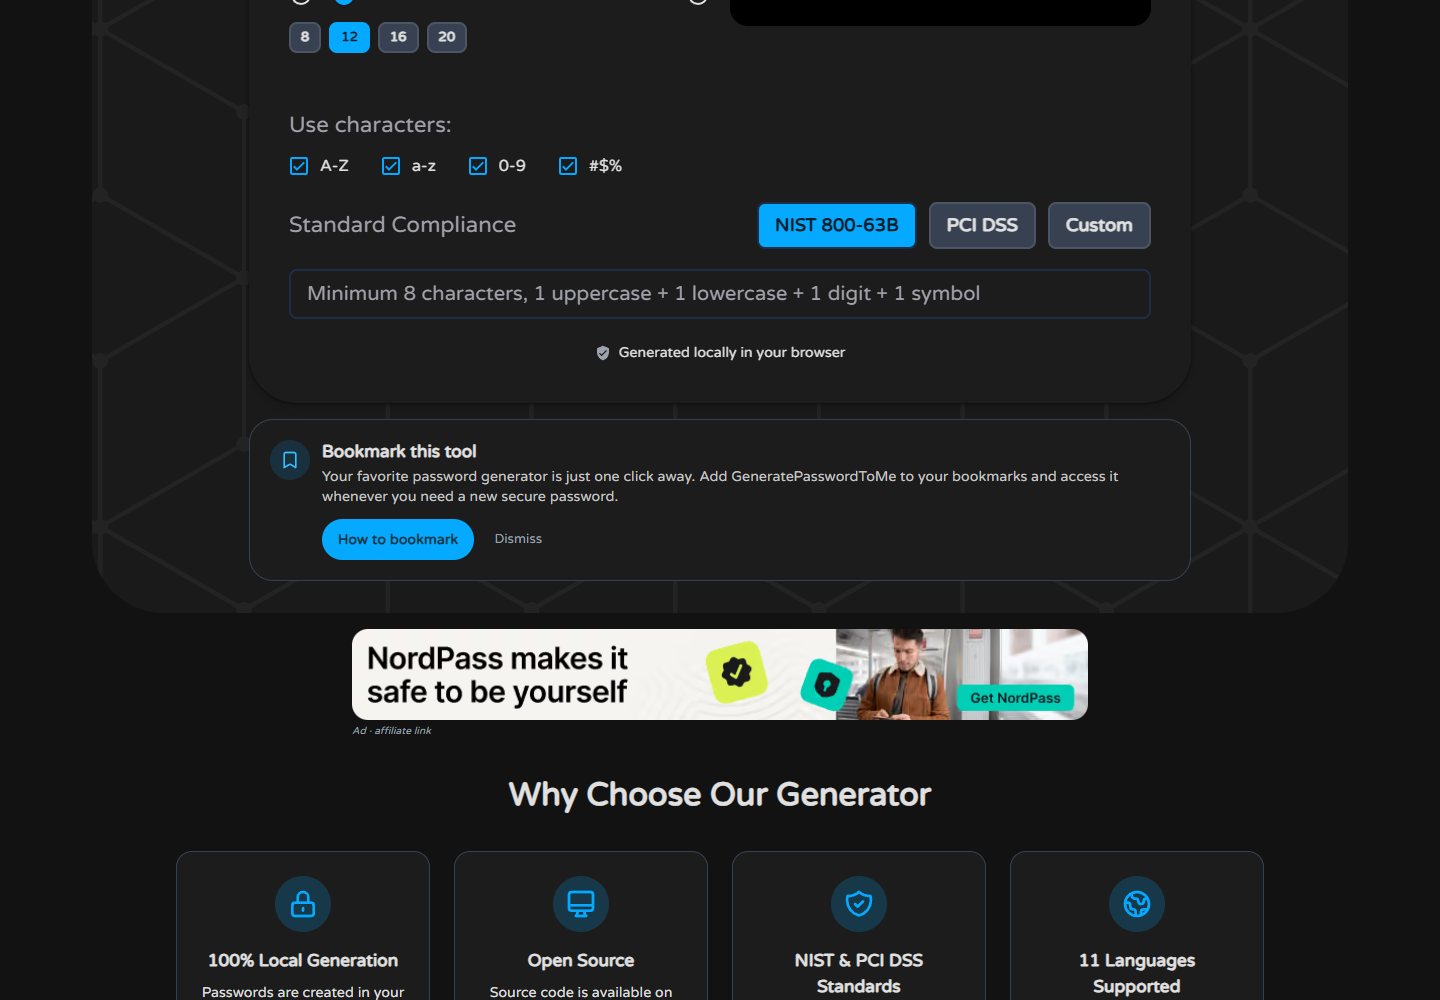
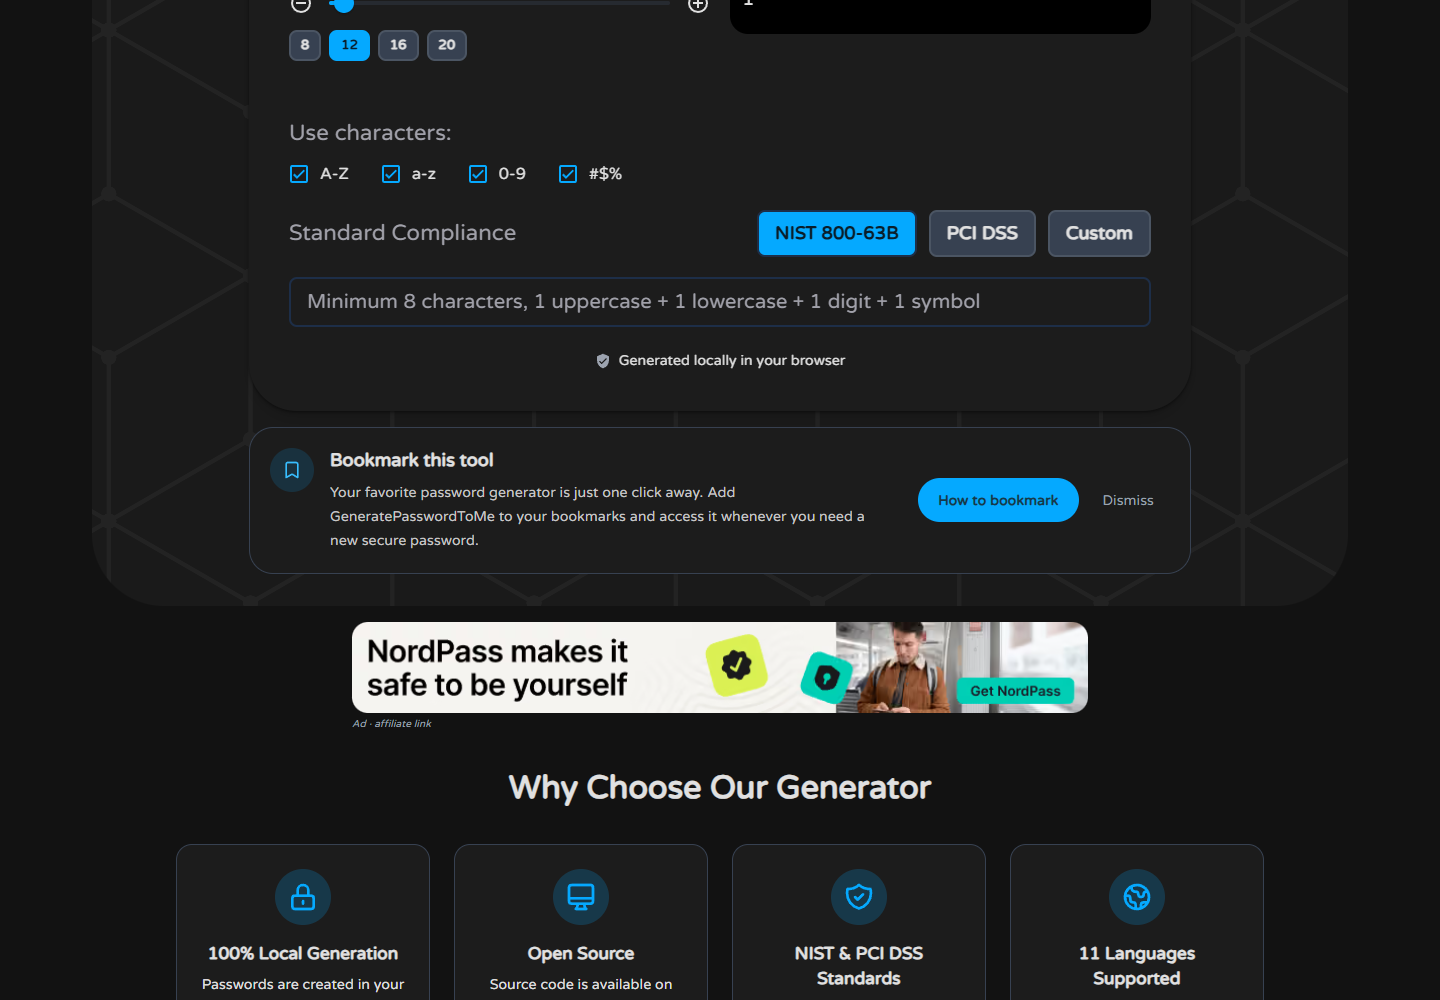
Polish bookmark prompt typography, spacing and locale fonts
- restore locale fonts inside portaled dialogs (Arsenal for ua/ru, Noto Sans SC/JP for zh/ja); the global * font rule bypassed inheritance, so dialogs fell back to Varela Round for Cyrillic and CJK
- normalise the dialog type scale to 12/14/16/18 and cap copy at 65ch: the desktop block line length dropped from ~113 to 75 characters
- lay the block out as a 65ch text column with the actions on the right, and give title/description an 8px rhythm
- raise touch targets to 44px for primary/secondary actions, selects and the close button, 40px for device chips
- refresh desktop/mobile screenshots and document the measurements

Prepared with an AI coding assistant.

diff --git a/src/components/BookmarkPrompt/BookmarkInstructions.tsx b/src/components/BookmarkPrompt/BookmarkInstructions.tsx
@@ -5,6 +5,7 @@ import { createPortal } from 'react-dom';
 import { useTranslation } from 'react-i18next';
 import { Bookmark, X } from 'lucide-react';
 import { cn } from '@/lib/utils';
+import { localeFontClass } from '@/lib/locale-font';
 import { announceModalOpen, subscribeModalOpen } from '@/lib/modal-coordination';
 import {
   BOOKMARK_EVENTS,
@@ -232,7 +233,10 @@ export default function BookmarkInstructions({ locale, platform, onClose }: Book
         aria-modal="true"
         aria-labelledby="bookmark-instructions-title"
         aria-describedby="bookmark-instructions-description"
-        className="max-h-[92vh] w-full max-w-lg animate-in overflow-y-auto rounded-t-3xl border border-[#E5F6FF] bg-white p-5 shadow-2xl fade-in duration-200 motion-reduce:animate-none dark:border-[#374151] dark:bg-[#1c1c1c] sm:rounded-3xl sm:p-6"
+        className={cn(
+          localeFontClass(locale),
+          'max-h-[92vh] w-full max-w-lg animate-in overflow-y-auto rounded-t-3xl border border-[#E5F6FF] bg-white p-5 shadow-2xl fade-in duration-200 motion-reduce:animate-none dark:border-[#374151] dark:bg-[#1c1c1c] sm:rounded-3xl sm:p-6'
+        )}
       >
         <div className="flex items-start justify-between gap-3">
           <div className="flex items-start gap-3">
@@ -244,7 +248,7 @@ export default function BookmarkInstructions({ locale, platform, onClose }: Book
             </span>
             <h2
               id="bookmark-instructions-title"
-              className="mt-1 text-[18px] font-bold leading-snug text-[#071016] dark:text-[#e0e0e0] sm:text-[19px]"
+              className="mt-2 text-[18px] font-bold leading-snug text-[#071016] dark:text-[#e0e0e0]"
             >
               {t('bookmark_modal_title')}
             </h2>
@@ -254,7 +258,7 @@ export default function BookmarkInstructions({ locale, platform, onClose }: Book
             type="button"
             onClick={() => onClose('close')}
             aria-label={t('bookmark_close')}
-            className="shrink-0 rounded-full p-1.5 text-[#6b7280] transition hover:bg-[#EAF8FF] hover:text-[#2A4E63] focus-visible:outline-none focus-visible:ring-4 focus-visible:ring-[#2A4E63]/30 dark:text-[#9ca3af] dark:hover:bg-white/10 dark:hover:text-white dark:focus-visible:ring-[#05a9ff]/40"
+            className="flex h-11 w-11 shrink-0 items-center justify-center rounded-full text-[#6b7280] transition hover:bg-[#EAF8FF] hover:text-[#2A4E63] focus-visible:outline-none focus-visible:ring-4 focus-visible:ring-[#2A4E63]/30 dark:text-[#9ca3af] dark:hover:bg-white/10 dark:hover:text-white dark:focus-visible:ring-[#05a9ff]/40"
           >
             <X className="h-5 w-5" aria-hidden="true" />
           </button>
@@ -262,12 +266,12 @@ export default function BookmarkInstructions({ locale, platform, onClose }: Book
 
         <p
           id="bookmark-instructions-description"
-          className="mt-3 text-[14px] leading-6 text-[#374151] dark:text-[#c7c7c7]"
+          className="mt-3 max-w-prose text-[14px] leading-6 text-[#374151] dark:text-[#c7c7c7]"
         >
           {t('bookmark_modal_description')}
         </p>
 
-        <p className="mt-2 text-[12px] text-[#6b7280] dark:text-[#9ca3af]">
+        <p className="mt-2 text-[12px] leading-5 text-[#6b7280] dark:text-[#9ca3af]">
           {t('bookmark_detected', {
             device: t(`bookmark_platform_${deviceType}`),
             os: osLabel,
@@ -275,7 +279,7 @@ export default function BookmarkInstructions({ locale, platform, onClose }: Book
           })}
         </p>
 
-        <div className="mt-4 rounded-2xl border border-[#E5F6FF] bg-[#F7FCFF] p-3 dark:border-[#374151] dark:bg-[#242424]">
+        <div className="mt-5 rounded-2xl border border-[#E5F6FF] bg-[#F7FCFF] p-4 dark:border-[#374151] dark:bg-[#242424]">
           <p className="text-[12px] font-semibold text-[#2A4E63] dark:text-[#9ed9ff]">
             {t('bookmark_manual_instructions')}
           </p>
@@ -284,7 +288,7 @@ export default function BookmarkInstructions({ locale, platform, onClose }: Book
             <legend className="text-[12px] text-[#4b5563] dark:text-[#bdbdbd]">
               {t('bookmark_platform_select')}
             </legend>
-            <div className="mt-1 flex flex-wrap gap-2">
+            <div className="mt-1.5 flex flex-wrap gap-2">
               {DEVICE_OPTIONS.map((option) => (
                 <button
                   key={option}
@@ -292,7 +296,7 @@ export default function BookmarkInstructions({ locale, platform, onClose }: Book
                   onClick={() => handleDeviceChange(option)}
                   aria-pressed={deviceType === option}
                   className={cn(
-                    'rounded-full border px-3 py-1.5 text-[13px] font-semibold transition',
+                    'inline-flex min-h-10 items-center rounded-full border px-3.5 text-[14px] font-semibold transition',
                     'focus-visible:outline-none focus-visible:ring-4 focus-visible:ring-[#2A4E63]/30 dark:focus-visible:ring-[#05a9ff]/40',
                     deviceType === option
                       ? 'border-[#2A4E63] bg-[#2A4E63] text-white dark:border-[#05a9ff] dark:bg-[#05a9ff] dark:text-[#16394a]'
@@ -313,7 +317,7 @@ export default function BookmarkInstructions({ locale, platform, onClose }: Book
               <select
                 value={os}
                 onChange={(event) => handleOsChange(event.target.value as OperatingSystem)}
-                className="mt-1 w-full rounded-full border border-[#c9e6f5] bg-white px-3 py-2 text-[14px] text-[#071016] focus-visible:outline-none focus-visible:ring-2 focus-visible:ring-[#2A4E63] dark:border-[#4b5563] dark:bg-[#1c1c1c] dark:text-[#e0e0e0] dark:focus-visible:ring-[#05a9ff]"
+                className="mt-1 h-11 w-full rounded-full border border-[#c9e6f5] bg-white px-3 text-[14px] text-[#071016] focus-visible:outline-none focus-visible:ring-2 focus-visible:ring-[#2A4E63] dark:border-[#4b5563] dark:bg-[#1c1c1c] dark:text-[#e0e0e0] dark:focus-visible:ring-[#05a9ff]"
               >
                 {OS_OPTIONS.map((option) => (
                   <option key={option} value={option}>
@@ -330,7 +334,7 @@ export default function BookmarkInstructions({ locale, platform, onClose }: Book
               <select
                 value={browser}
                 onChange={(event) => setBrowser(event.target.value as BrowserId)}
-                className="mt-1 w-full rounded-full border border-[#c9e6f5] bg-white px-3 py-2 text-[14px] text-[#071016] focus-visible:outline-none focus-visible:ring-2 focus-visible:ring-[#2A4E63] dark:border-[#4b5563] dark:bg-[#1c1c1c] dark:text-[#e0e0e0] dark:focus-visible:ring-[#05a9ff]"
+                className="mt-1 h-11 w-full rounded-full border border-[#c9e6f5] bg-white px-3 text-[14px] text-[#071016] focus-visible:outline-none focus-visible:ring-2 focus-visible:ring-[#2A4E63] dark:border-[#4b5563] dark:bg-[#1c1c1c] dark:text-[#e0e0e0] dark:focus-visible:ring-[#05a9ff]"
               >
                 {BROWSER_OPTIONS.map((option) => (
                   <option key={option} value={option}>
@@ -342,7 +346,7 @@ export default function BookmarkInstructions({ locale, platform, onClose }: Book
           </div>
         </div>
 
-        <ol className="mt-4 space-y-3">
+        <ol className="mt-5 space-y-3">
           {plan.steps.map((step, index) => (
             <li key={step} className="flex gap-3">
               <span
@@ -363,35 +367,35 @@ export default function BookmarkInstructions({ locale, platform, onClose }: Book
         {/* With a known desktop OS the OS hint already explains the shortcut,
             so the generic desktop summary would only repeat it. */}
         {plan.noteKey && !plan.osHintKey ? (
-          <p className="mt-3 text-[13px] leading-5 text-[#4b5563] dark:text-[#bdbdbd]">
+          <p className="mt-3 max-w-prose text-[14px] leading-6 text-[#4b5563] dark:text-[#bdbdbd]">
             {t(plan.noteKey, { shortcut: plan.shortcut ?? '', browser: browserLabel })}
           </p>
         ) : null}
 
         {plan.osHintKey ? (
-          <p className="mt-1 text-[13px] leading-5 text-[#4b5563] dark:text-[#bdbdbd]">
+          <p className="mt-3 max-w-prose text-[14px] leading-6 text-[#4b5563] dark:text-[#bdbdbd]">
             {t(plan.osHintKey)}
           </p>
         ) : null}
 
         {plan.menuAlternative ? (
-          <p className="mt-1 text-[13px] leading-5 text-[#4b5563] dark:text-[#bdbdbd]">
+          <p className="mt-2 max-w-prose text-[14px] leading-6 text-[#4b5563] dark:text-[#bdbdbd]">
             {t('bookmark_step_menu_alternative', { menu: t('bookmark_browser_menu') })}
           </p>
         ) : null}
 
-        <div className="mt-5 flex flex-col gap-2 sm:flex-row sm:justify-end">
+        <div className="mt-6 flex flex-col gap-2 sm:flex-row sm:justify-end sm:gap-3">
           <button
             type="button"
             onClick={() => onClose('close')}
-            className="rounded-full px-5 py-3 text-[14px] font-medium text-[#6b7280] transition hover:bg-[#EAF8FF] hover:text-[#2A4E63] focus-visible:outline-none focus-visible:ring-4 focus-visible:ring-[#2A4E63]/20 dark:text-[#9ca3af] dark:hover:bg-white/5 dark:hover:text-white dark:focus-visible:ring-[#05a9ff]/30"
+            className="inline-flex min-h-11 items-center justify-center rounded-full px-5 text-[14px] font-medium text-[#6b7280] transition hover:bg-[#EAF8FF] hover:text-[#2A4E63] focus-visible:outline-none focus-visible:ring-4 focus-visible:ring-[#2A4E63]/20 dark:text-[#9ca3af] dark:hover:bg-white/5 dark:hover:text-white dark:focus-visible:ring-[#05a9ff]/30"
           >
             {t('bookmark_close')}
           </button>
           <button
             type="button"
             onClick={handleMarkedDone}
-            className="rounded-full bg-[#2A4E63] px-5 py-3 text-[14px] font-semibold text-white transition hover:bg-[#1f3b4c] focus-visible:outline-none focus-visible:ring-4 focus-visible:ring-[#2A4E63]/30 dark:bg-[#05a9ff] dark:text-[#16394a] dark:hover:bg-[#38beff] dark:focus-visible:ring-[#05a9ff]/40"
+            className="inline-flex min-h-11 items-center justify-center rounded-full bg-[#2A4E63] px-5 text-[14px] font-semibold text-white transition hover:bg-[#1f3b4c] focus-visible:outline-none focus-visible:ring-4 focus-visible:ring-[#2A4E63]/30 dark:bg-[#05a9ff] dark:text-[#16394a] dark:hover:bg-[#38beff] dark:focus-visible:ring-[#05a9ff]/40"
           >
             {t('bookmark_marked_done')}
           </button>

diff --git a/src/components/BookmarkPrompt/BookmarkPrompt.tsx b/src/components/BookmarkPrompt/BookmarkPrompt.tsx
@@ -145,37 +145,41 @@ export default function BookmarkPrompt({ language, active }: BookmarkPromptProps
         aria-labelledby="bookmark-prompt-title"
         className="mx-3 mb-4 mt-4 w-[calc(100%-1.5rem)] max-w-2xl animate-in self-center rounded-3xl border border-[#c9e6f5] bg-white p-4 fade-in shadow-sm duration-200 motion-reduce:animate-none dark:border-[#374151] dark:bg-[#1c1c1c] sm:p-5 lg:mb-0 lg:w-9/12 lg:max-w-none"
       >
-        <div className="flex items-start gap-3">
+        <div className="flex items-start gap-3 sm:gap-4">
           <span
-            className="flex h-10 w-10 shrink-0 items-center justify-center rounded-full bg-[#EAF8FF] text-[#2A4E63] dark:bg-[#05a9ff]/15 dark:text-[#38beff]"
+            className="flex h-10 w-10 shrink-0 items-center justify-center rounded-full bg-[#EAF8FF] text-[#2A4E63] dark:bg-[#05a9ff]/15 dark:text-[#38beff] sm:h-11 sm:w-11"
             aria-hidden="true"
           >
             <Bookmark className="h-5 w-5" />
           </span>
 
-          <div className="min-w-0 flex-1">
-            <h2
-              id="bookmark-prompt-title"
-              className="text-[16px] font-bold leading-snug text-[#071016] dark:text-[#e0e0e0] sm:text-[17px]"
-            >
-              {t('bookmark_title')}
-            </h2>
-            <p className="mt-1 text-[13px] leading-5 text-[#374151] dark:text-[#c7c7c7] sm:text-[14px]">
-              {t('bookmark_description')}
-            </p>
+          <div className="min-w-0 flex-1 sm:flex sm:items-center sm:justify-between sm:gap-6">
+            {/* 65ch caps the line length on wide desktop cards: the card is
+                ~940px wide, so uncapped copy ran to ~113 characters per line. */}
+            <div className="min-w-0 sm:max-w-prose">
+              <h2
+                id="bookmark-prompt-title"
+                className="text-[16px] font-bold leading-snug text-[#071016] dark:text-[#e0e0e0] sm:text-[18px]"
+              >
+                {t('bookmark_title')}
+              </h2>
+              <p className="mt-2 text-[14px] leading-6 text-[#374151] dark:text-[#c7c7c7]">
+                {t('bookmark_description')}
+              </p>
+            </div>
 
-            <div className="mt-3 flex flex-wrap items-center gap-2">
+            <div className="mt-4 flex flex-wrap items-center gap-2 sm:mt-0 sm:shrink-0">
               <button
                 type="button"
                 onClick={handleOpenInstructions}
-                className="rounded-full bg-[#2A4E63] px-4 py-2.5 text-[14px] font-semibold text-white transition hover:bg-[#1f3b4c] focus-visible:outline-none focus-visible:ring-4 focus-visible:ring-[#2A4E63]/30 dark:bg-[#05a9ff] dark:text-[#16394a] dark:hover:bg-[#38beff] dark:focus-visible:ring-[#05a9ff]/40"
+                className="inline-flex min-h-11 items-center justify-center rounded-full bg-[#2A4E63] px-5 text-[14px] font-semibold text-white transition hover:bg-[#1f3b4c] focus-visible:outline-none focus-visible:ring-4 focus-visible:ring-[#2A4E63]/30 dark:bg-[#05a9ff] dark:text-[#16394a] dark:hover:bg-[#38beff] dark:focus-visible:ring-[#05a9ff]/40"
               >
                 {t('bookmark_cta')}
               </button>
               <button
                 type="button"
                 onClick={handleDismiss}
-                className="rounded-full px-3 py-2.5 text-[13px] font-medium text-[#6b7280] transition hover:bg-[#EAF8FF] hover:text-[#2A4E63] focus-visible:outline-none focus-visible:ring-4 focus-visible:ring-[#2A4E63]/20 dark:text-[#9ca3af] dark:hover:bg-white/5 dark:hover:text-white dark:focus-visible:ring-[#05a9ff]/30"
+                className="inline-flex min-h-11 items-center justify-center rounded-full px-4 text-[14px] font-medium text-[#6b7280] transition hover:bg-[#EAF8FF] hover:text-[#2A4E63] focus-visible:outline-none focus-visible:ring-4 focus-visible:ring-[#2A4E63]/20 dark:text-[#9ca3af] dark:hover:bg-white/5 dark:hover:text-white dark:focus-visible:ring-[#05a9ff]/30"
               >
                 {t('bookmark_dismiss')}
               </button>

diff --git a/src/lib/locale-font.ts b/src/lib/locale-font.ts
@@ -1,0 +1,31 @@
+/**
+ * Locale fonts for text rendered outside `.container.<locale>`.
+ *
+ * The site maps fonts per locale in `src/styles/index.css` with selectors such
+ * as `.container.ua *`. Page content is inside that container, but dialogs are
+ * rendered through a portal directly under `<body>`, so they used to fall back
+ * to the default Varela Round stack: Cyrillic then dropped to a system face and
+ * CJK to the browser default, which no longer matched the rest of the page.
+ *
+ * A plain inline `fontFamily` on the dialog root is not enough: the global
+ * `* { font-family: ... }` rule applies to every child and beats inheritance.
+ * These helper class names pair with the `.locale-font-*` rules in the global
+ * stylesheet, which target descendants the same way the page rules do.
+ */
+
+/** Class that applies the locale font to the element and all of its children. */
+export function localeFontClass(locale: string | undefined | null): string {
+  switch (locale) {
+    case 'ua':
+    case 'ru':
+      return 'locale-font-ua';
+    case 'zh':
+      return 'locale-font-zh';
+    case 'ja':
+      return 'locale-font-ja';
+    default:
+      // English, Polish and any other Latin locale already inherit the default
+      // Varela Round stack from the global rule.
+      return '';
+  }
+}

diff --git a/src/components/affiliate/SavePasswordModal.tsx b/src/components/affiliate/SavePasswordModal.tsx
@@ -4,6 +4,7 @@ import { useEffect } from 'react';
 import { createPortal } from 'react-dom';
 import { X, ShieldCheck } from 'lucide-react';
 import { cn } from '@/lib/utils';
+import { localeFontClass } from '@/lib/locale-font';
 import { resolveAffiliateUrl } from '@/content/affiliate/links';
 import { announceModalOpen, subscribeModalOpen } from '@/lib/modal-coordination';
 import { useGeoCountry } from './useGeoCountry';
@@ -179,7 +180,10 @@ export default function SavePasswordModal({ locale, open, onClose }: SavePasswor
       onClick={dismiss}
     >
       <div
-        className="max-h-[90vh] w-full max-w-md overflow-y-auto rounded-3xl border border-[#E5F6FF] bg-white p-6 shadow-2xl ring-1 ring-[#2A4E63]/5 dark:border-[#374151] dark:bg-[#1c1c1c] dark:ring-white/10"
+        className={cn(
+          localeFontClass(locale),
+          'max-h-[90vh] w-full max-w-md overflow-y-auto rounded-3xl border border-[#E5F6FF] bg-white p-6 shadow-2xl ring-1 ring-[#2A4E63]/5 dark:border-[#374151] dark:bg-[#1c1c1c] dark:ring-white/10'
+        )}
         onClick={(e) => e.stopPropagation()}
       >
         <div className="flex items-start justify-between gap-4">

diff --git a/src/styles/index.css b/src/styles/index.css
@@ -70,6 +70,25 @@
   font-family: var(--font-varela-round), sans-serif !important;
 }
 
+/* Locale fonts for portaled dialogs, which render outside .container.<locale>.
+   The global * font rule beats inheritance, so descendants must be targeted too. */
+.locale-font-ua,
+.locale-font-ua *,
+.locale-font-ru,
+.locale-font-ru * {
+  font-family: var(--font-arsenal), sans-serif !important;
+}
+
+.locale-font-zh,
+.locale-font-zh * {
+  font-family: var(--font-noto-sans-sc), var(--font-noto-sans-jp), var(--font-noto-sans), sans-serif !important;
+}
+
+.locale-font-ja,
+.locale-font-ja * {
+  font-family: var(--font-noto-sans-jp), var(--font-noto-sans-sc), var(--font-noto-sans), sans-serif !important;
+}
+
 /* Dark mode styles */
 .dark {
   background-color: var(--dark-theme-bg);

diff --git a/docs/bookmark-prompt.md b/docs/bookmark-prompt.md
@@ -18,6 +18,7 @@ Created:
 | `src/components/BookmarkPrompt/bookmarkTypes.ts` | Shared TypeScript types. |
 | `src/components/BookmarkPrompt/bookmarkUtils.test.mjs` | 44 unit tests for detection, state and analytics. |
 | `src/components/BookmarkPrompt/bookmarkTranslations.test.mjs` | 6 tests validating all 12 locales (completeness, placeholders, CJK length). |
+| `src/lib/locale-font.ts` | Locale font classes for portaled dialogs (see below). |
 | `src/lib/modal-coordination.ts` | Tiny pub/sub so the bookmark dialog and the NordPass save modal never overlap. |
 | `docs/screenshots/bookmark-prompt/*.png` | Desktop / tablet / mobile screenshots (light and dark). |
 
@@ -26,8 +27,9 @@ Modified:
 | File | Change |
 | --- | --- |
 | `src/components/PasswordGenerator/PasswordGenerator.tsx` | Renders `<BookmarkPrompt>` directly under the generator card. No changes to generation, strength or HIBP logic. |
-| `src/components/affiliate/SavePasswordModal.tsx` | Announces itself and closes when the bookmark dialog opens (and vice versa). |
+| `src/components/affiliate/SavePasswordModal.tsx` | Announces itself and closes when the bookmark dialog opens (and vice versa); now uses the locale font like the page. |
 | `src/components/lang.json` | 34 new `bookmark_*` keys × 12 languages (408 strings). |
+| `src/styles/index.css` | `.locale-font-ua/ru/zh/ja` rules so portaled dialogs keep the locale font. |
 
 ## Architecture
 
@@ -129,6 +131,27 @@ translated. Placeholders (`{{shortcut}}`, `{{browser}}`, `{{menu}}`, `{{device}}
 `{{os}}`) are identical in every locale — enforced by
 `bookmarkTranslations.test.mjs`, which also checks that `ua`/`ru`/`zh`/`ja` never fall
 back to the English string and that CJK strings stay within 90 characters.
+
+## Typography, spacing and layout
+
+Measured in Chrome (1440 px desktop, 390 px phone):
+
+| Item | Before | After |
+| --- | --- | --- |
+| Body line length in the block | 113 chars/line (848 px) | 75 chars/line (`max-w-prose`, 65 ch) |
+| Type sizes in the dialog | 12, 13, 14, 16, 19 | 12, 14, 16, 18 |
+| Title → description gap | 4 px | 8 px |
+| Desktop block layout | single stacked column | 65 ch text column with actions on the right |
+| Primary/secondary touch targets | 40–41 px | 44 px |
+| Device chips | 34 px | 40 px |
+| Selects | 37 px | 44 px |
+| Dialog section spacing | 4–20 px, mixed | 8 / 12 / 16 / 20 / 24 rhythm |
+
+Font composition: both dialogs are portaled under `<body>`, outside
+`.container.<locale>`, and the global `* { font-family: … }` rule beats inheritance.
+`localeFontClass()` from `src/lib/locale-font.ts` plus the `.locale-font-*` rules in
+`src/styles/index.css` restore Arsenal for `ua`/`ru` and Noto Sans SC/JP for `zh`/`ja`;
+`en`/`pl` keep Varela Round. Verified with `getComputedStyle` for all five locales.
 
 ## Accessibility & theming
 
